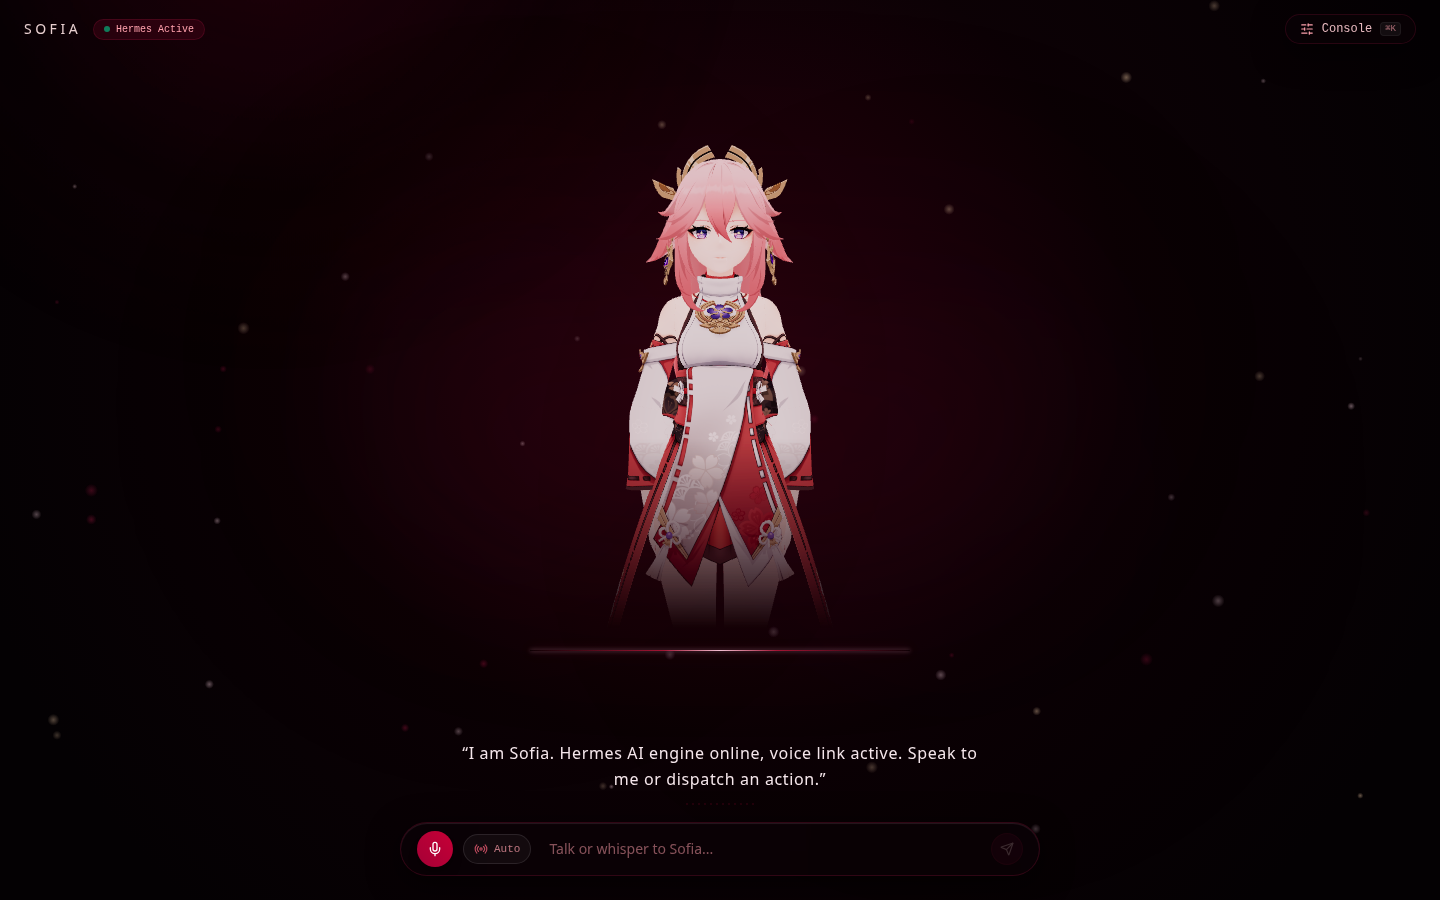
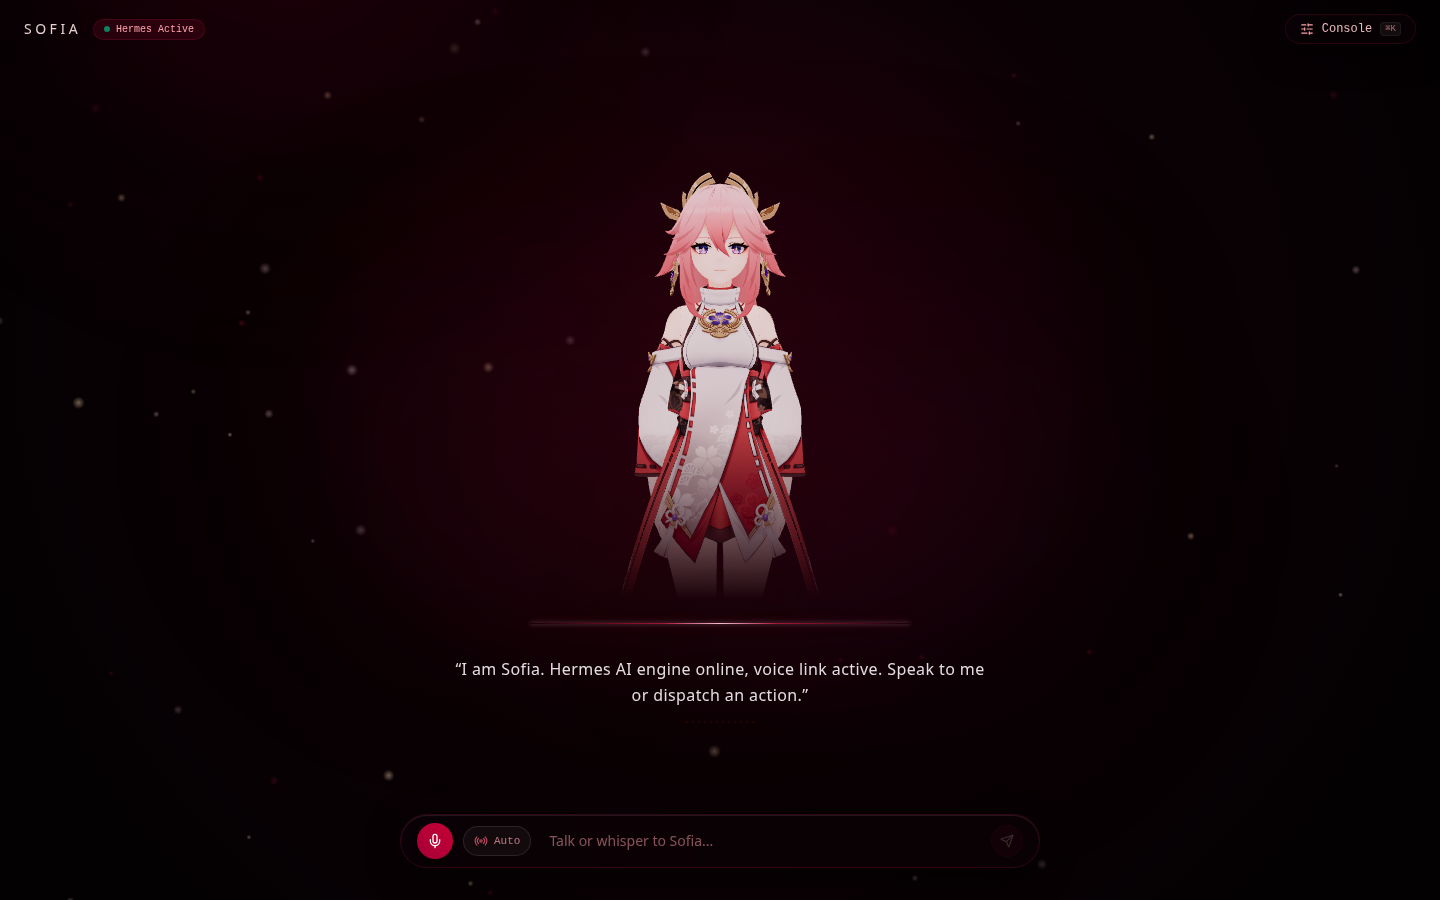
feat(ui): rebalance vertical rhythm, elevate typography & add audio reactivity to datum line

diff --git a/src/components/Sofia3DStage.tsx b/src/components/Sofia3DStage.tsx
@@ -275,7 +275,7 @@ export const Sofia3DStage: React.FC<Sofia3DStageProps> = ({
           />
 
           {/* 3D Canvas Stage: Weightless Holographic Dissolve Stage */}
-          <div className="relative w-full h-[460px] sm:h-[500px] md:h-[540px] flex items-center justify-center z-10 overflow-visible">
+          <div className="relative w-full h-[420px] sm:h-[460px] md:h-[480px] flex items-center justify-center z-10 overflow-visible">
             <Sofia3DCanvas
               expression={expression}
               isSpeaking={isSpeaking}
@@ -284,54 +284,57 @@ export const Sofia3DStage: React.FC<Sofia3DStageProps> = ({
             />
 
             {/* 3. Razor-Thin Luminous Horizon Beam (1px Glow Line) */}
-            {/* Anchored at the holographic dissolve threshold directly below torso */}
+            {/* Audio-reactive pulse modulation: scales width and bloom when speaking */}
             <div 
-              className="absolute bottom-1 left-1/2 -translate-x-1/2 w-[320px] sm:w-[380px] h-[1px] pointer-events-none z-20"
+              className={`absolute bottom-0 left-1/2 -translate-x-1/2 h-[1px] pointer-events-none z-20 transition-all duration-300 ease-out ${
+                isSpeaking
+                  ? 'w-[360px] sm:w-[420px] shadow-[0_0_18px_rgba(225,29,72,0.7),0_0_6px_rgba(255,200,220,0.9)] animate-pulse'
+                  : 'w-[320px] sm:w-[380px] shadow-[0_0_12px_rgba(225,29,72,0.4),0_0_4px_rgba(255,200,220,0.6)]'
+              }`}
               style={{
                 background: 'linear-gradient(90deg, transparent 0%, rgba(225, 29, 72, 0.7) 35%, rgba(255, 200, 220, 0.95) 50%, rgba(225, 29, 72, 0.7) 65%, transparent 100%)',
-                boxShadow: '0 0 12px rgba(225, 29, 72, 0.4), 0 0 4px rgba(255, 200, 220, 0.6)',
               }}
               aria-hidden="true"
             />
           </div>
+
+          {/* 4. Live Spoken Dialogue Caption: Lifted to sit cleanly 32px (mt-8) below Sofia's projection line */}
+          <div 
+            onClick={isSpeaking ? onInterrupt : () => onSpeak(dialogue)}
+            title={isSpeaking ? "Click to interrupt" : "Click to replay audio"}
+            className="text-center max-w-xl min-h-[44px] flex flex-col items-center justify-center px-4 cursor-pointer group mt-8 z-10"
+          >
+            <p 
+              className={`text-base font-sans tracking-wide leading-relaxed font-medium transition-all duration-300 ease-out ${
+                isSpeaking
+                  ? 'text-[#fbf5f7] drop-shadow-[0_0_15px_rgba(255,220,235,0.7)] scale-[1.01]'
+                  : 'text-[#fbf5f7]/90 group-hover:text-white'
+              }`}
+            >
+              &ldquo;{dialogue}&rdquo;
+            </p>
+
+            {/* Micro Audio Equalizer Frequency Bars */}
+            <div className="flex items-center space-x-1 h-3 mt-2" aria-hidden="true">
+              {[4, 12, 18, 14, 8, 16, 20, 10, 6, 14, 18, 6].map((h, i) => (
+                <span
+                  key={i}
+                  style={{
+                    height: isSpeaking || isListening ? `${h * 0.55}px` : '2px',
+                    transition: 'height 0.15s ease',
+                  }}
+                  className={`w-0.5 rounded-full ${
+                    isSpeaking ? 'bg-rose-400' : isListening ? 'bg-cyan-400' : 'bg-rose-950/50'
+                  }`}
+                />
+              ))}
+            </div>
+          </div>
         </div>
       </section>
 
-      {/* 3. Bottom Subtitle Dialogue Line & Minimal Glassy Command Dock */}
-      <section aria-label="Spoken Dialogue and Command Dock" className="relative z-20 w-full max-w-2xl px-4 pb-5 sm:pb-6 flex flex-col items-center space-y-3 shrink-0">
-        {/* Real-time Subtitle Dialogue Line — positioned cleanly 28px below datum line */}
-        <div 
-          onClick={isSpeaking ? onInterrupt : () => onSpeak(dialogue)}
-          title={isSpeaking ? "Click to interrupt" : "Click to replay audio"}
-          className="text-center max-w-xl min-h-[44px] flex flex-col items-center justify-center px-4 cursor-pointer group mt-[28px]"
-        >
-          <p 
-            className={`text-sm sm:text-base font-sans tracking-[0.04em] leading-relaxed transition-all duration-500 ${
-              isSpeaking
-                ? 'text-white font-normal drop-shadow-[0_0_15px_rgba(255,220,235,0.7)]'
-                : 'text-[#f5e6eb] font-light group-hover:text-white'
-            }`}
-          >
-            &ldquo;{dialogue}&rdquo;
-          </p>
-
-          {/* Micro Audio Equalizer Frequency Bars */}
-          <div className="flex items-center space-x-1 h-3 mt-1.5" aria-hidden="true">
-            {[4, 12, 18, 14, 8, 16, 20, 10, 6, 14, 18, 6].map((h, i) => (
-              <span
-                key={i}
-                style={{
-                  height: isSpeaking || isListening ? `${h * 0.55}px` : '2px',
-                  transition: 'height 0.15s ease',
-                }}
-                className={`w-0.5 rounded-full ${
-                  isSpeaking ? 'bg-rose-400' : isListening ? 'bg-cyan-400' : 'bg-rose-950/50'
-                }`}
-              />
-            ))}
-          </div>
-        </div>
-
+      {/* 3. Bottom Minimal Glassy Command Dock — anchored cleanly at bottom-8 with breathing room */}
+      <section aria-label="Command Dock" className="relative z-20 w-full max-w-2xl px-4 pb-8 flex flex-col items-center shrink-0">
         {/* Sleek Minimalist Ultra-Clean Frosted Dark Glass Command Dock */}
         <div className="w-full backdrop-blur-2xl bg-[#0d0207]/40 border border-[#8b1538]/30 rounded-full px-3.5 sm:px-4 py-2 shadow-[0_8px_32px_0_rgba(0,0,0,0.6),inset_0_1px_1px_rgba(255,200,225,0.12)] flex items-center gap-2.5 transition-all focus-within:border-rose-400/50 focus-within:bg-[#12030a]/60">
           {/* Voice Talk Microphone Button */}
